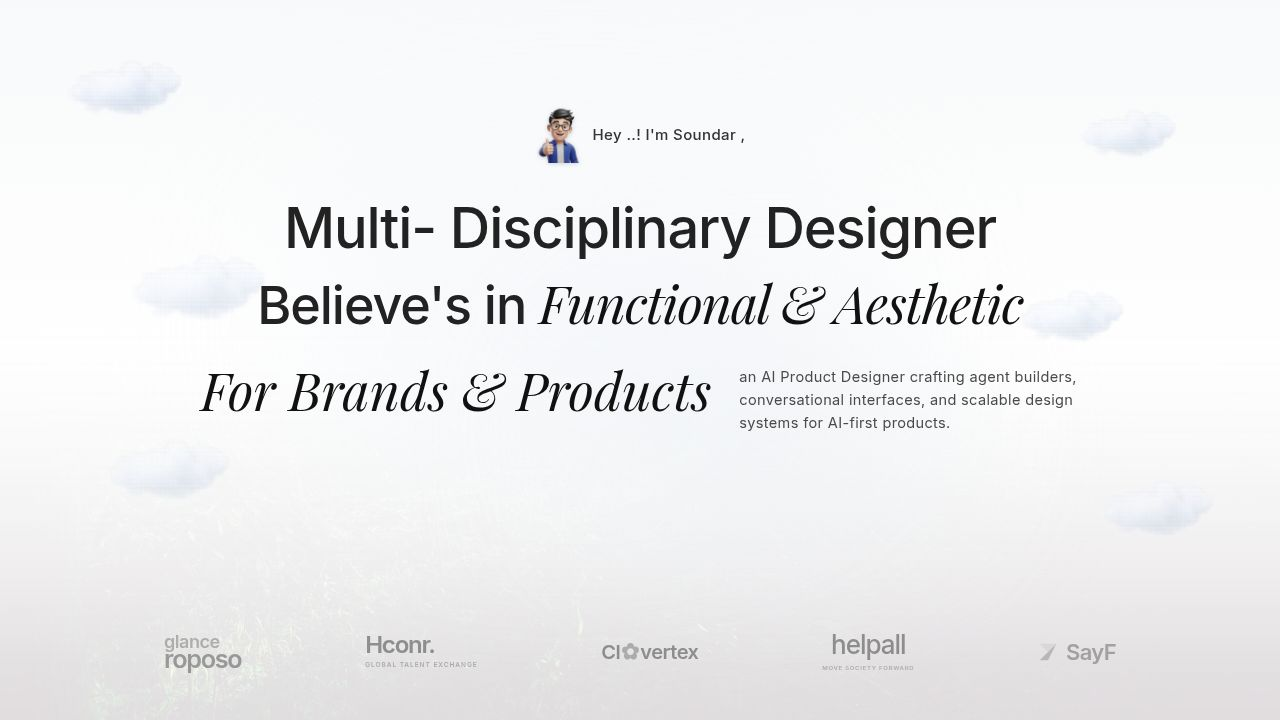
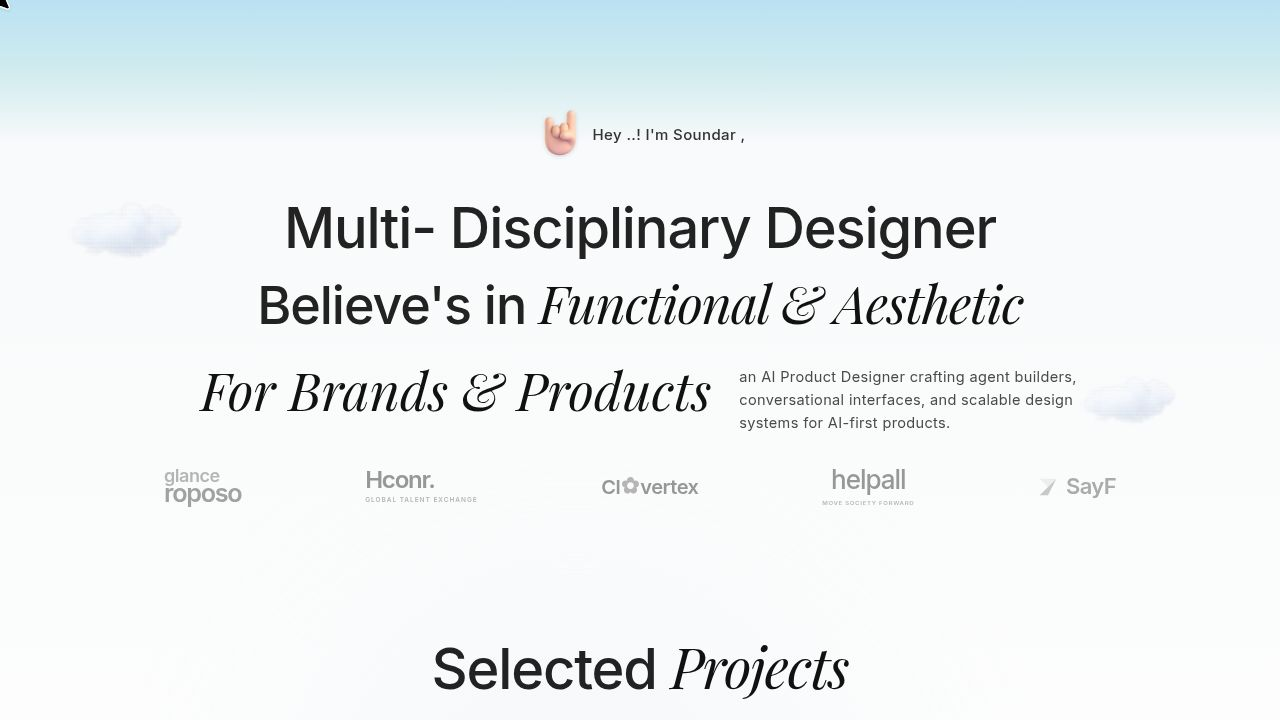
Add a third project card and a new experiences section to the homepage
Integrates a new project card into the Hero section and adds a new Experience component to the Home page, featuring a distinct dark theme and parallax cloud background.

Replit-Commit-Author: Agent
Replit-Commit-Session-Id: 52f1d6fa-e166-4684-b34a-a4ed58976510
Replit-Commit-Checkpoint-Type: full_checkpoint
Replit-Commit-Event-Id: 0bba953c-f534-49b1-8781-566faca480cb
Replit-Commit-Screenshot-Url: https://storage.googleapis.com/screenshot-production-us-central1/5320be69-53b9-4336-b668-556b60bdf81d/52f1d6fa-e166-4684-b34a-a4ed58976510/dJV2A4I
Replit-Helium-Checkpoint-Created: true

diff --git a/client/src/components/Experience.tsx b/client/src/components/Experience.tsx
@@ -1,0 +1,76 @@
+export function Experience() {
+  const experiences = [
+    {
+      role: "Senior Product Designer",
+      company: "@Sense",
+      period: "May 2024 - Present",
+      description: "Over the past year, I have advanced from a product designer to a design system manager, which has allowed me to expand my understanding of the overall strategic vision."
+    },
+    {
+      role: "Product Designer",
+      company: "@Glance",
+      period: "Oct 2023 - May 2024",
+      description: "Over the past year, I have advanced from a product designer to a design system manager, which has allowed me to expand my understanding of the overall strategic vision."
+    },
+    {
+      role: "Product Designer",
+      company: "@Redbaton",
+      period: "Jan 2023 - May 2023",
+      description: "Over the past year, I have advanced from a product designer to a design system manager, which has allowed me to expand my understanding of the overall strategic vision."
+    },
+    {
+      role: "UI UX Designer",
+      company: "@Metafic",
+      period: "Jun 2021 - Dec 2022",
+      description: "Over the past year, I have advanced from a product designer to a design system manager, which has allowed me to expand my understanding of the overall strategic vision."
+    },
+    {
+      role: "Freelancer",
+      company: "",
+      period: "2019 - Dec 2020",
+      description: "Over the past year, I have advanced from a product designer to a design system manager, which has allowed me to expand my understanding of the overall strategic vision."
+    }
+  ];
+
+  return (
+    <section className="relative w-full bg-[#111111] text-white py-24 md:py-32 px-6 overflow-hidden rounded-t-[2.5rem] md:rounded-t-[4rem] -mt-12 z-20 shadow-[0_-10px_40px_rgba(0,0,0,0.1)]">
+      {/* Subtle cloud background similar to the reference */}
+      <div 
+        className="absolute inset-0 opacity-[0.03] pointer-events-none mix-blend-overlay"
+        style={{
+          backgroundImage: 'url("/cloud.avif")',
+          backgroundSize: 'cover',
+          backgroundPosition: 'center',
+          filter: 'grayscale(100%)'
+        }}
+      />
+      
+      <div className="relative z-10 w-full max-w-[900px] mx-auto">
+        <h2 className="text-[2rem] sm:text-[2.5rem] md:text-[2.8rem] font-medium text-center mb-16 md:mb-24 tracking-tight">
+          Experiences that shaped <span className="font-serif italic text-white/90">my design lens</span>
+        </h2>
+
+        <div className="flex flex-col">
+          {experiences.map((exp, index) => (
+            <div 
+              key={index} 
+              className={`py-8 md:py-10 flex flex-col gap-3 ${index !== experiences.length - 1 ? 'border-b border-white/10' : ''}`}
+            >
+              <div className="flex flex-col sm:flex-row sm:items-baseline justify-between gap-2">
+                <h3 className="text-[1.1rem] md:text-[1.2rem] font-semibold tracking-wide text-white/95">
+                  {exp.role} <span className="font-normal text-white/80">{exp.company}</span>
+                </h3>
+                <span className="text-white/50 text-[0.85rem] md:text-[0.9rem] font-medium tracking-wider">
+                  {exp.period}
+                </span>
+              </div>
+              <p className="text-[#888888] text-[14px] md:text-[15px] leading-[1.6] max-w-[600px] font-normal tracking-wide">
+                {exp.description}
+              </p>
+            </div>
+          ))}
+        </div>
+      </div>
+    </section>
+  );
+}

diff --git a/client/src/components/Hero.tsx b/client/src/components/Hero.tsx
@@ -249,6 +249,48 @@ export function Hero() {
               </div>
             </div>
           </div>
+
+          {/* Project Card 3 */}
+          <div className="bg-gradient-to-b from-[#f0f4f8] to-[#e8ecf1] rounded-3xl p-8 md:p-12 shadow-sm hover:shadow-md transition-shadow duration-300">
+            <div className="flex flex-col md:flex-row gap-8 md:gap-12 items-start">
+              {/* Project Image */}
+              <div className="w-full md:w-[45%] flex-shrink-0">
+                <div className="rounded-2xl overflow-hidden bg-white aspect-square md:aspect-auto md:h-[400px] shadow-lg">
+                  <img 
+                    src="https://images.unsplash.com/photo-1552664730-d307ca884978?q=80&w=1000&auto=format&fit=crop" 
+                    alt="Conversational Interface Project" 
+                    className="w-full h-full object-cover"
+                    data-testid="img-project-conversational"
+                  />
+                </div>
+              </div>
+
+              {/* Project Content */}
+              <div className="w-full md:w-[55%] flex flex-col justify-center">
+                <h3 className="text-[1.8rem] md:text-[2rem] font-medium text-[#222] tracking-[-0.02em] leading-[1.2] mb-4">
+                  Crafting seamless <span className="font-serif italic font-normal">conversational interfaces</span> for B2B
+                </h3>
+                
+                <ul className="space-y-3 text-[#555] text-[14px] md:text-[15px] leading-[1.6]">
+                  <li className="flex gap-3">
+                    <span className="text-[#888] flex-shrink-0">•</span>
+                    <span>Designed an intuitive chat-based interface for complex enterprise workflows.</span>
+                  </li>
+                  <li className="flex gap-3">
+                    <span className="text-[#888] flex-shrink-0">•</span>
+                    <span>Improved user engagement by reducing cognitive load during task execution.</span>
+                  </li>
+                  <li className="flex gap-3">
+                    <span className="text-[#888] flex-shrink-0">•</span>
+                    <span>Integrated intelligent suggested actions based on contextual user data.</span>
+                  </li>
+                </ul>
+
+                {/* Gradient Accent */}
+                <div className="mt-8 h-12 rounded-full bg-gradient-to-r from-[#d4e5a5] via-[#e8f0b8] to-[#f0f8c8] opacity-40 blur-sm" data-testid="accent-gradient-3"></div>
+              </div>
+            </div>
+          </div>
         </div>
       </div>
     </section>

diff --git a/client/src/pages/Home.tsx b/client/src/pages/Home.tsx
@@ -1,9 +1,11 @@
 import { Hero } from "@/components/Hero";
+import { Experience } from "@/components/Experience";
 
 export default function Home() {
   return (
     <main className="min-h-screen bg-background text-foreground selection:bg-primary selection:text-primary-foreground">
       <Hero />
+      <Experience />
     </main>
   );
 }
